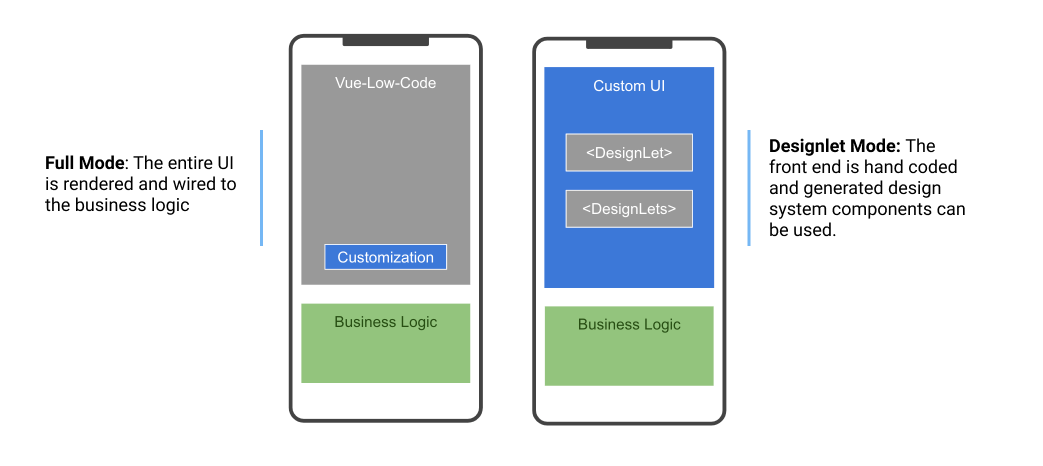
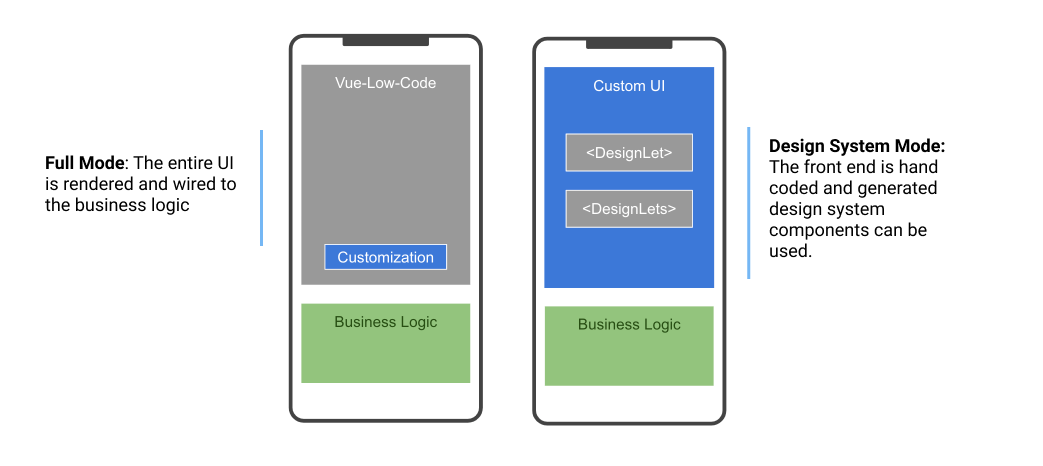
Better docu, some fixes

Changed region(s): [[0.7057, 0.3004, 0.9204, 0.6009]]

diff --git a/src/index.js b/src/index.js
@@ -25,6 +25,20 @@ export async function createFigmaDesignlets (figmaFile, figmaAcessKey, config) {
   return FigmaDesignSystem.register(figmaFile, figmaAcessKey, config)
 }
 
+export async function createFigmaDesignSystem (figmaFile, figmaAcessKey, config) {
+    return FigmaDesignSystem.register(figmaFile, figmaAcessKey, config)
+}
+
+
 export async function createQUXDesignlets (app, config) {
     return QUXDesignSystem.register(app, config)
+}
+
+export async function createQUXDesignSystem (app, config) {
+    return QUXDesignSystem.register(app, config)
+}
+
+
+export function getDesignSystem () {
+    return QUXDesignSystem
 }

diff --git a/src/qux/ds/QUXDesignSystem.js b/src/qux/ds/QUXDesignSystem.js
@@ -55,6 +55,7 @@ class QUXDesignSystem {
 
   constructor () {
     this.server = 'https://quant-ux.com'
+    this.components = {}
   }
 
 	async register(app, config = {}, hasComponentSet = false) {
@@ -119,6 +120,11 @@ class QUXDesignSystem {
 
     if (hasComponentSet && Util.isComponentSet(element)) {
       this.fixComponentSet(element, props)
+    }
+
+    this.components[`${prefix}${element.name}`] = {
+      name: `${prefix}${element.name}`,
+      element: element
     }
 
     /**

diff --git a/src/qux/scss/qux-textbox.scss b/src/qux/scss/qux-textbox.scss
@@ -1,9 +1,15 @@
 .qux-textbox{
     border: 1px solid #333;
     transition: all 0.2s;
-    padding: 0px;
+
 
     &:focus {
         outline: none;
+    }
+}
+
+.qux-screen {
+    .qux-textbox {
+        padding: 0px;
     }
 }

diff --git a/README.md b/README.md
@@ -47,15 +47,13 @@ More information can be found [here](https://uxdesign.cc/figma-low-code-a-new-wa
 Vue-Low-Code provides two modes of operation.
 1. The first mode is the 'Full' low code mode. The Figma or Quant-UX design is entirely rendered and wired to the
 business logic. The front-end developers will usually do little UI customization and  focus on backend connectivity and business logic.
-2. The second mode is the so called 'DesignLet' mode, which turn your design system into Vue components that can be used as normal components Vue-Low-Code.
-Vuw-Low-Code will generate custom VUE components on the fly and register them. The developers will develop the mayority of the application by hand and use design system components for certain
-elements such as buttons or input fields.
+2. The second mode is the so called 'Design System' mode, which turns your design system into Vue components. The developers can simply use these as any other VUE component within their projects.
 
 
 ![Vue-Low-Code architecture](assets/LowCodeModes.png "Vue-Low-Code support to modes of operations")
 
 The full mode will in general result to a faster development experience, however the developers have less control over the front end. The
-'DesignLet' speeds up development and helps to implement design systems. Please note, that both approaches will maintain the Figma or Quant-UX
+'Design System' mode speeds up development and helps to implement design systems. Please note, that both approaches will maintain the
 design as the single source of truth. Design channges will be instantly visible in the application.
 
 
@@ -65,7 +63,7 @@ Table of contents
 
 1. [Installation](#How-to-install-Vue-Low-Code)
 2. [Full Mode](#Full-Mode)
-3. [Designlet Mode](#Designlet-Mode)
+3. [Design System Mode](#Design-System-Mode)
 4. [Defintion of Bindings in Quant-UX](#Define-data-binding-and-callbacks)
 5. [Responsive Rendering](#Responsive-Rendering)
 6. [Low Code Workflow](#Low-Code-Workflow)
@@ -266,11 +264,10 @@ Afterwards import the icons in the App.vue
 import '@mdi/font/css/materialdesignicons.css'
 ```
 
-## Designlet Mode
+## Design System Mode
 
-The DesignLet allows to turn your design system into Vue components that can be used as normal components. DesignLets are not limited to
-simple components like buttons or text, but can also be compplex components like forms, dialogs and so on. The first step is
-to *globally* register the designlets before any template is parsed. The easiest way is to register the designlets in the `main.js`file:
+The Design System mode allows to turn your design system into Vue components that can be used as normal components. The first step is
+to *globally* register the design system before any template is parsed. The easiest way is to register the design system in the `main.js`file:
 
 ```javascript
 import Vue from 'vue'
@@ -287,10 +284,10 @@ Vue.config.productionTip = false
  * Make sure the design is registered before the App is mounted
  */
 async function init () {
-    // for live debuging use Figma.createFigmaDesignlets(<FileID>, <AccessKey>)
-  await VueLowCode.createFigmaDesignlets(figmaDesign)
-  // for live debuging use Figma.createFigmaDesignlets(<sharekey>)
-  await VueLowCode.createQUXDesignlets(quxDesign)
+    // for live debuging use Figma.createFigmaDesignSystem(<FileID>, <AccessKey>)
+  await VueLowCode.createFigmaDesignSystem(figmaDesign)
+  // for live debuging use Figma.createQUXDesignSystem(<quxSharekey>)
+  await VueLowCode.createQUXDesignSystem(quxDesign)
 
   new Vue({
     router,
@@ -302,8 +299,8 @@ init()
 
 ```
 
-The Vue-Low-Code package provides a method for Figma (`createFigmaDesignlets`) and for Quant-UX (`createQUXDesignlets`). For Figma design systems,
-you use your [API token](https://www.figma.com/developers/api#access-tokens) and file if, or you can download the Figma design using the *download.js* script
+The Vue-Low-Code package provides a method for Figma (`createFigmaDesignSystem`) and for Quant-UX (`createQUXDesignSystem`). For Figma design systems,
+you use your [API token](https://www.figma.com/developers/api#access-tokens) and fileID, or you can download the Figma design using the *download.js* script
 
 ```bash
 node download.js <api token> <file id>
@@ -317,9 +314,9 @@ quant-ux
 ```
 
 
-### Using designlets
+### Using the Low Code Design System
 
-Once the designlets are registered, they can be used within any template in the application. Suppose there is primary button defined in the design system. This can be invoked be simple using a tag with the corresponding name. Please make sure that the design system names do not clash with standard HTML elements, or other
+Once the design system is registered, they can be used within any template in the application. Suppose there is primary button defined in the design system. This can be invoked be simple using a tag with the corresponding name. Please make sure that the design system names do not clash with standard HTML elements, or other
 components in your code base.
 
 ```vue
@@ -348,13 +345,13 @@ jobs = [
 
 ### Data and Method Binding
 
-For complex designlets such as dialogs, one has to use data and method binding ([Details](##define-data-binding-and-callbacks)). The relevant
-elements have to be wired to the right data and the right actions have to be defined. For instance in a login dialog, the email field needs to be
+Low Code Design Systems are not limited to simple components like buttons or text, but can also be compplex components like forms, dialogs and so on.
+Usually one has to use data and method binding ([Details](##define-data-binding-and-callbacks)) in this situations to populate the elements with data.
+The relevant (child) elements have to be wired to the right data and the right actions have to be defined. For instance in a login dialog, the email field needs to be
 wired to the `email` variable and the password field to the `password` variable. The button needs to get a method binding for the `login` method. When the
-user clicks in the button, and 'login' event will be fired, which can be used using the standard '@' notation. Please note, that when a component consist out of more than one shapes, it is not possible infer where the label text should be shown. One has to
-specify a magic data binding (`$label`). The wiring of the login dialog would look like
+user clicks in the button, and 'login' event will be fired, which can be used using the standard '@' notation. Please note, that when a component consist out of more than one shapes, it is not possible infer where the label text should be shown. One has to specify a magic data binding (`$label`). The wiring of the login dialog would look like
 
-![A complex designlet with data and method binding](assets/DesignletDataBinding.png "Data and Method binding for designlets")
+![A complex component with data and method binding](assets/DesignletDataBinding.png "Data and Method binding for components")
 
 The code would be
 
@@ -448,7 +445,8 @@ We envision the following workflow to enable painless collaboration between desi
 - [Quant-UX](https://quant-ux.com)
 - [Low Code Example](https://github.com/KlausSchaefers/qux-low-code-example)
 - [Figma Plugin](https://www.figma.com/community/plugin/858477504263032980/Figma-Low-Code)
-- [Figma Low Code](https://github.com/KlausSchaefers/figma-low-code)
+- [Figma-Low-Code](https://github.com/KlausSchaefers/figma-low-code)
+- [Figma-Low-Code Design System Example](https://github.com/KlausSchaefers/figma-design-system-example)
 - [Some motivation for the project](https://uxdesign.cc/figma-low-code-a-new-way-to-tackle-design-hand-offs-a72cb109a455)
 
 # Dev Setup
